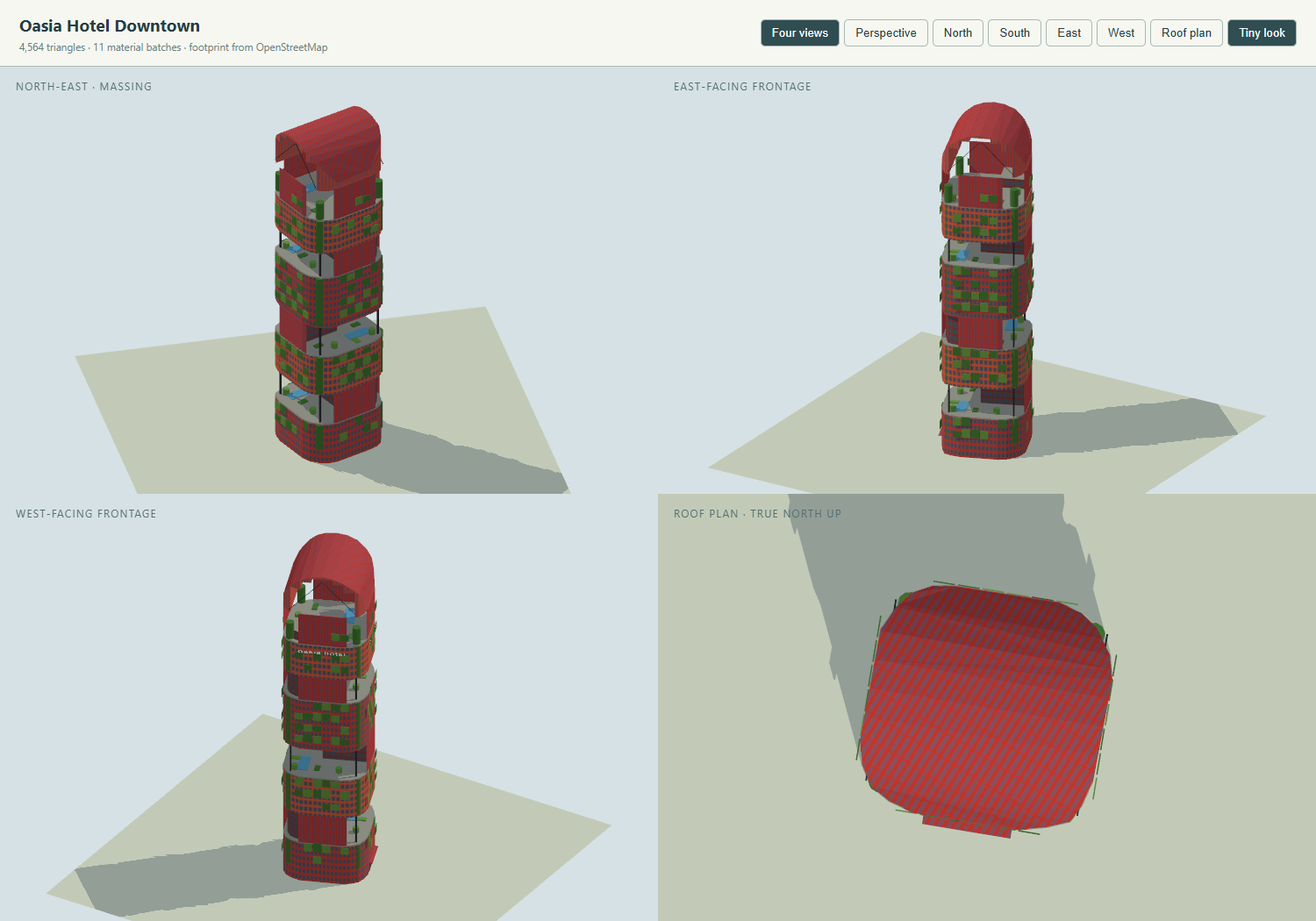
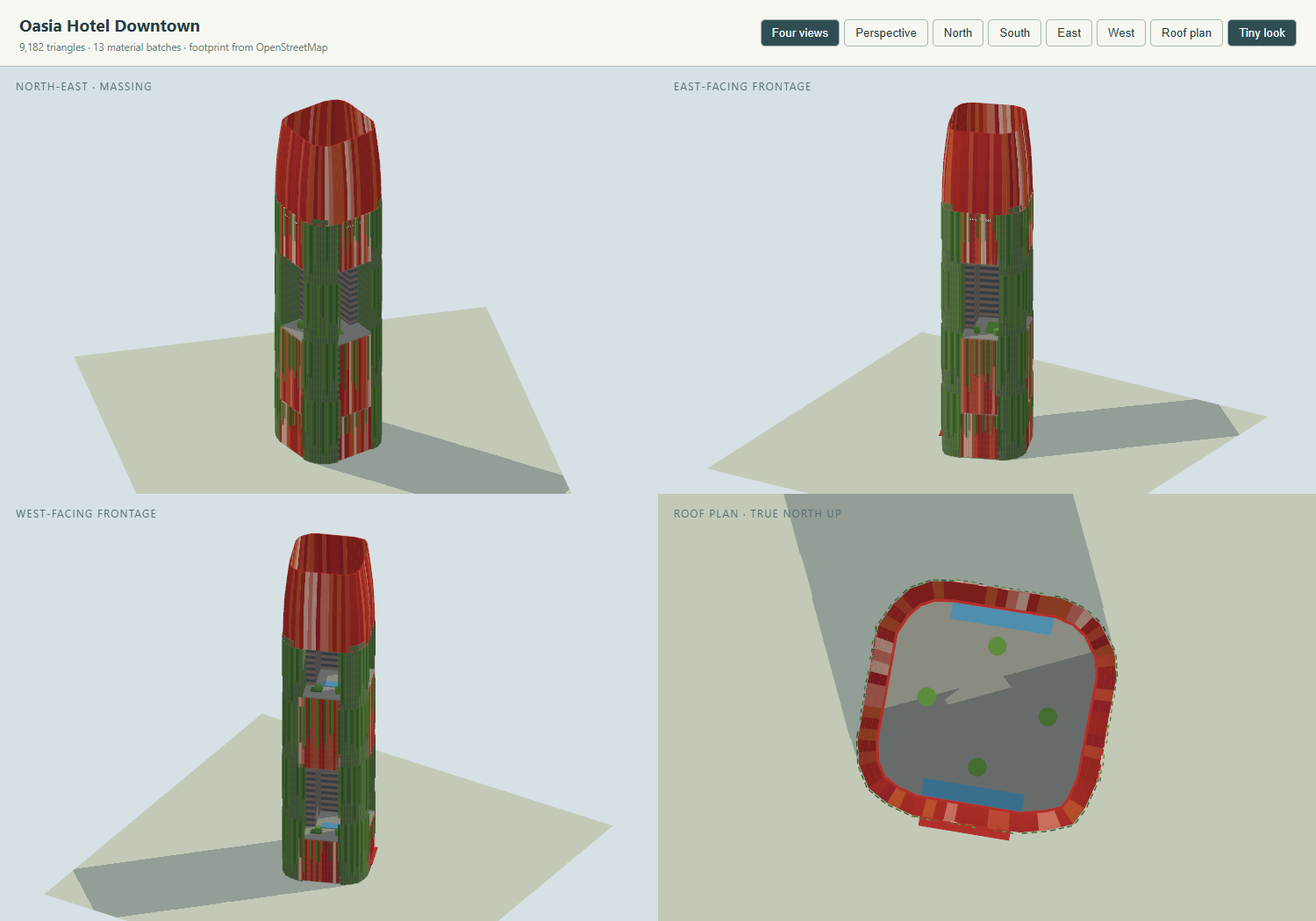
Rebuild Oasia crown, corner cores and strata from WOHA drawings

diff --git a/js/landmark-models/oasia-hotel-downtown.js b/js/landmark-models/oasia-hotel-downtown.js
@@ -1,19 +1,28 @@
 // js/landmark-models/oasia-hotel-downtown.js
-// Oasia Hotel Downtown, 100 Peck Seah Street (WOHA, 2016): a 27-storey tower wrapped in a red aluminium
-// mesh with creepers growing over it, its floors stacked as strata each served by an open sky terrace
-// (levels 6, 12, 21 and the level-27 roof terrace), the terraces flipping from face to face as the
-// enclosed core jumps corner, and the mesh continuing above the roof as a hollow arched crown screen
-// (documented 42.9 m of crown over a 190.15 m building; the mapped outline, OSM way 393100847, says
-// 193 m and 27 levels). Strata heights below are estimates from the documented total, the crown height
-// and photographs, not surveyed elevations: enclosed blocks 0-23, 41-64, 82-112 and 127-147 m, open
-// terraces between them, the roof deck at 147 m and the vault top at 190 m. See docs/oasia-hotel-downtown.md.
+// Oasia Hotel Downtown (SG-115), 100 Peck Seah Street (WOHA, 2016): a 27-storey tower wrapped in a red
+// aluminium mesh with creepers, built as full-height service cores in its four rounded corners (each a green
+// facade in WOHA's plans) with L-shaped floors stacked between sky terraces. Each stratum is one tall
+// framed opening: the enclosed L fills two faces from terrace deck to terrace deck while the opposite corner
+// stays open as a sky garden, and the L flips corner at every terrace (offices east+north, guestrooms
+// south+west, club rooms east+north again, as WOHA's 7th-11th, 13th-20th and 22nd-25th plans show). The
+// mesh continues over the 27th-storey roof terrace as an open-topped crown ring curving inward, so the
+// rooftop pools stay visible from above. Terrace decks at about 26, 70, 114 and 144 m and the 190 m top
+// are scaled from WOHA's published section (1:900, whose width matches the mapped footprint); the total
+// is the documented 190.15 m. The mapped outline is OSM way 393100847 (27 levels, mapped 193 m).
+// See docs/oasia-hotel-downtown.md.
 export const info = { name: 'Oasia Hotel Downtown', height: 190 };
 
 const OUTLINE = 393100847;
-const BLOCKS = [[0, 23], [41, 64], [82, 112], [127, 147]];
-// label, deck, soffit, core corner: NW cores leave the south/east faces open, SE cores the north/west
-const TERRACES = [['terrace6', 23, 41, 'NW'], ['terrace12', 64, 82, 'SE'], ['terrace21', 112, 127, 'NW']];
-const ROOF = 147, CROWN_WALL_TOP = 166, TOP = 190;
+const DECKS = [26, 70, 114, 144]; // 6th, 12th, 21st and 27th storey sky terraces, scaled from the section
+const TOP = 190;
+const DEPTH = 18; // an L leg's depth from its face, from the typical-floor plans
+const CORNER = 13; // a corner core's reach along each face from its corner
+// label, deck, next deck, the corner the L wraps [east/west sign on u, south/north sign on v]
+const STRATA = [
+  ['offices', DECKS[0], DECKS[1], [1, -1]],
+  ['guestrooms', DECKS[1], DECKS[2], [-1, 1]],
+  ['club', DECKS[2], DECKS[3], [1, -1]]
+];
 
 export function build(kit, site) {
   const mapped = site.parts.find((p) => p.id === OUTLINE);
@@ -46,6 +55,19 @@ export function build(kit, site) {
   const ringL = ring.map(toLocal);
   const insetL = (d) => kit.inset(ring, d).map(toLocal);
   const W = (poly) => poly.map(toWorld);
+  // How far each face stays flat: its longest mapped edge (the corners are rounded, radius ~12 m, so the
+  // flat stretch is only about 21.5 m and its ends are where panels, strands and signs must stop)
+  const flat = {};
+  for (let i = 0; i < ringL.length; i++) {
+    const a = ringL[i], b = ringL[(i + 1) % ringL.length];
+    const du = b[0] - a[0], dv = b[1] - a[1], len = Math.hypot(du, dv);
+    const mid = [(a[0] + b[0]) / 2, (a[1] + b[1]) / 2];
+    const offer = (face, at, lo, hi) => { if (!flat[face] || len > flat[face].len) flat[face] = { lo, hi, at, len }; };
+    if (Math.abs(dv) < 0.6 && mid[1] > hz - 1.2) offer('south', mid[1], Math.min(a[0], b[0]), Math.max(a[0], b[0]));
+    if (Math.abs(dv) < 0.6 && mid[1] < -hz + 1.2) offer('north', mid[1], Math.min(a[0], b[0]), Math.max(a[0], b[0]));
+    if (Math.abs(du) < 0.6 && mid[0] > hx - 1.2) offer('east', mid[0], Math.min(a[1], b[1]), Math.max(a[1], b[1]));
+    if (Math.abs(du) < 0.6 && mid[0] < -hx + 1.2) offer('west', mid[0], Math.min(a[1], b[1]), Math.max(a[1], b[1]));
+  }
 
   // Clip a convex local polygon by another convex local polygon (the footprint is a rounded square)
   const area2 = (p) => { let a = 0; for (let i = 0, j = p.length - 1; i < p.length; j = i++) a += p[j][0] * p[i][1] - p[i][0] * p[j][1]; return a; };
@@ -71,20 +93,14 @@ export function build(kit, site) {
     return out;
   }
   const rect = (u0, v0, u1, v1) => [[u0, v0], [u1, v0], [u1, v1], [u0, v1]];
-  // The mesh panel on one face: the part of the footprint within 0.65 m of that face's flat stretch
-  const facePanel = (face) => clip(ringL, {
-    south: rect(-hx - 2, hz - 0.65, hx + 2, hz + 2), north: rect(-hx - 2, -hz - 2, hx + 2, -hz + 0.65),
-    east: rect(hx - 0.65, -hz - 2, hx + 2, hz + 2), west: rect(-hx - 2, -hz - 2, -hx + 0.65, hz + 2)
-  }[face]);
+  const cornerCap = (su, sv, reach = CORNER, poly = ringL) => clip(poly,
+    rect(su > 0 ? hx - reach : -hx - 2, sv > 0 ? hz - reach : -hz - 2, su > 0 ? hx + 2 : -hx + reach, sv > 0 ? hz + 2 : -hz + reach));
 
   const M = {
-    // The mesh screen itself (terraces, crown, canopy): close red vertical strips over dark red
-    mesh: kit.facadeMaterial({ wall: 0xb8352c, window: 0x6e2430, floorHeight: 4.5, bayWidth: 1.6, windowWidth: 0.45, pattern: 'strips' }),
-    mesh2: kit.facadeMaterial({ wall: 0xc8503a, window: 0x77303a, floorHeight: 4.5, bayWidth: 1.9, windowWidth: 0.45, pattern: 'strips' }),
-    // The enclosed floors seen through the mesh: dark windows in a red-orange grid, alternating tones per block
-    block: kit.facadeMaterial({ wall: 0xc23b2e, window: 0x2a2f36, floorHeight: 3.9, bayWidth: 2.2, pattern: 'curtain' }),
-    block2: kit.facadeMaterial({ wall: 0xcf5a34, window: 0x2a2f36, floorHeight: 3.9, bayWidth: 2.5, pattern: 'curtain' }),
-    core: kit.facadeMaterial({ wall: 0x7a3a34, window: 0x222b33, floorHeight: 3.9, bayWidth: 2.8, pattern: 'curtain' }),
+    // the mesh's vertical panels, in the mixed reds, orange, pink and near-white of the photographs
+    meshTones: [0xb3312c, 0xc85a34, 0xa82a33, 0xb3312c, 0xd77a6a, 0xc8503a, 0xb3312c, 0xe3b7a4].map((c) => kit.material(c)),
+    rooms: kit.facadeMaterial({ wall: 0x8f7f74, window: 0x2c3438, floorHeight: 3.6, bayWidth: 2.4, pattern: 'ribbon' }),
+    core: kit.facadeMaterial({ wall: 0x668548, window: 0x354d26, floorHeight: 4.5, bayWidth: 1.5, windowWidth: 0.5, pattern: 'strips' }),
     dark: kit.material(0x2e3134), deck: kit.material(0x8b8d84),
     green: kit.material(0x3f7031), green2: kit.material(0x5d8f3e),
     pool: kit.glassMaterial(0x2f7f9f)
@@ -100,109 +116,152 @@ export function build(kit, site) {
     return kit.cylinder({ x, z, y0, y1, r, segments, material, top: material, name });
   };
   const rnd = (n) => { const x = Math.sin(n * 127.1 + 311.7) * 43758.5453; return x - Math.floor(x); };
+  const tone = (i) => M.meshTones[Math.abs(Math.floor(rnd(i * 3.7 + 11) * 17)) % M.meshTones.length];
 
-  // Creeper patches and green-wrapped corners over a height band of the four faces
-  function creepers(y0, y1, tag, density) {
-    for (const [fi, face] of ['south', 'north', 'east', 'west'].entries()) {
-      for (let col = 0; col < 6; col++) {
-        const a = -12.5 + col * 5, off = (col % 3) * 0.05;
-        for (let row = 0, y = y0 + 3.5; y < y1 - 2.5; y += 7, row++) {
-          const r = rnd(fi * 733 + col * 71 + row * 17 + Math.round(y0));
-          if (r > density) continue;
-          const h = 3.5 + r * 3, mat = (col + row) % 2 ? M.green : M.green2, name = `${tag}-creeper-${face}-${col}-${row}`;
-          if (face === 'south') B(a, hz - 0.02 + off, y, 4.4, h, 0.3, mat, name);
-          else if (face === 'north') B(a, -hz + 0.02 - off, y, 4.4, h, 0.3, mat, name);
-          else if (face === 'east') B(hx - 0.02 + off, a, y, 0.3, h, 4.4, mat, name);
-          else B(-hx + 0.02 - off, a, y, 0.3, h, 4.4, mat, name);
+  // The mesh on one enclosed face: vertical panels in mixed tones, only where the face is flat
+  function meshFace(face, y0, y1, seed) {
+    const { lo, hi, at } = flat[face];
+    for (let col = 0, a = lo + 0.7; a <= hi - 0.7; a += 1.55, col++) {
+      const mat = tone(seed + col * 7), name = `mesh-${face}-${Math.round(y0)}-${col}`;
+      if (face === 'south') B(a, at - 0.05, y0, 1.35, y1 - y0, 0.35, mat, name);
+      else if (face === 'north') B(a, at + 0.05, y0, 1.35, y1 - y0, 0.35, mat, name);
+      else if (face === 'east') B(at - 0.05, a, y0, 0.35, y1 - y0, 1.35, mat, name);
+      else B(at + 0.05, a, y0, 0.35, y1 - y0, 1.35, mat, name);
+    }
+  }
+  // Creepers as vertical strands hanging on the mesh, kept on the flat stretch of each face
+  function strandsFace(face, y0, y1, seed, density = 0.55) {
+    const { lo, hi, at } = flat[face];
+    for (let col = 0, a = lo + 0.5; a <= hi - 0.5; a += 1.5, col++) {
+      const r = rnd(seed + col * 13.7);
+      if (r > density) continue;
+      const len = (0.35 + r * 0.75) * (y1 - y0), y = y1 - len, out = 0.3 + (col % 3) * 0.06;
+      const mat = col % 2 ? M.green : M.green2, name = `creeper-${face}-${Math.round(y0)}-${col}`;
+      if (face === 'south') B(a, at + out, y, 0.8, len, 0.25, mat, name);
+      else if (face === 'north') B(a, at - out, y, 0.8, len, 0.25, mat, name);
+      else if (face === 'east') B(at + out, a, y, 0.25, len, 0.8, mat, name);
+      else B(at - out, a, y, 0.25, len, 0.8, mat, name);
+    }
+  }
+  // Creepers following the rounded corners themselves, sampled along the mapped perimeter
+  function cornerStrands(y0, y1, seed) {
+    let idx = 0;
+    for (let i = 0; i < ringL.length; i++) {
+      const a = ringL[i], b = ringL[(i + 1) % ringL.length];
+      const len = Math.hypot(b[0] - a[0], b[1] - a[1]), n = Math.max(1, Math.round(len / 1.8));
+      const du = (b[0] - a[0]) / len, dv = (b[1] - a[1]) / len;
+      for (let k = 0; k < n; k++, idx++) {
+        const t = (k + 0.5) / n, u = a[0] + (b[0] - a[0]) * t, v = a[1] + (b[1] - a[1]) * t;
+        if (!(Math.abs(u) > hx - 14.5 && Math.abs(v) > hz - 14.5)) continue;
+        let nx = dv, nz = -du;
+        if (nx * u + nz * v < 0) { nx = -nx; nz = -nz; }
+        const [x, z] = toWorld([u + nx * 0.2, v + nz * 0.2]);
+        const dir = [E[0] * du + S[0] * dv, E[1] * du + S[1] * dv];
+        for (let c = 0; c < 4; c++) {
+          const r = rnd(seed + idx * 7.3 + c * 31.7);
+          if (r > 0.78) continue;
+          const chunk = (y1 - y0) / 4, h = chunk * (0.55 + r * 0.5);
+          kit.box({ x, z, y: y0 + chunk * (c + 1) - h - 0.15, w: 1.1, h, d: 0.28, yaw: Math.atan2(dir[1], dir[0]), material: (idx + c) % 2 ? M.green : M.green2, top: M.green, name: `corner-creeper-${idx}-${c}` });
         }
       }
     }
-    for (const su of [-1, 1]) for (const sv of [-1, 1])
-      C(su * (hx - 5.2), sv * (hz - 5.2), y0 + 0.12, y1 - 0.12, 2.3, M.green, `${tag}-corner-green-${su}-${sv}`);
   }
 
-  // Enclosed strata: the full mapped footprint behind the red mesh
-  BLOCKS.forEach(([y0, y1], i) => {
-    kit.prism({ ring, y0: i === 0 ? -0.3 : y0, y1, material: i % 2 ? M.block2 : M.block, top: M.deck, name: `block-${i + 1}` });
-    kit.collisionPrism({ ring: kit.inset(ring, 0.4), y0: Math.max(0, y0), y1 });
-    creepers(i === 0 ? 8 : y0 + 1, y1, `block-${i + 1}`, 0.62);
-  });
+  // Four full-height corner cores, their outer faces the green facade of the plans
+  for (const su of [-1, 1]) for (const sv of [-1, 1]) {
+    const cap = cornerCap(su, sv);
+    prismL(cap, -0.3, DECKS[3], M.core, `corner-core-${su}-${sv}`, M.deck);
+    kit.collisionPrism({ ring: W(cap), y0: 0, y1: DECKS[3] });
+  }
+  cornerStrands(2, DECKS[3], 501);
 
-  // Street front: a dark lobby band under a thin canopy on the Peck Seah (south) face
-  B(0, hz - 0.4, 0, 16, 5, 1.2, M.core, 'lobby');
-  const canopy = B(0, hz + 0.6, 5.2, 18, 0.4, 2.6, M.mesh, 'entrance-canopy');
+  // Base (ground to the 6th-storey terrace): full footprint behind mesh on all four faces
+  kit.prism({ ring: kit.inset(ring, 1.0), y0: -0.3, y1: DECKS[0], material: M.rooms, top: M.deck, name: 'base' });
+  kit.collisionPrism({ ring: kit.inset(ring, 0.4), y0: 0, y1: DECKS[0] });
+  for (const [i, face] of ['south', 'north', 'east', 'west'].entries()) {
+    meshFace(face, 0.5, DECKS[0], 100 + i * 37);
+    strandsFace(face, 8, DECKS[0], 200 + i * 41);
+  }
+  const southCentre = (flat.south.lo + flat.south.hi) / 2;
+  B(southCentre, hz - 0.4, 0, 16, 5, 1.2, M.core, 'lobby');
+  const canopy = B(southCentre, hz + 0.6, 5.2, 18, 0.4, 2.6, M.meshTones[0], 'entrance-canopy');
   kit.collisionPrism({ ring: canopy.ring, y0: 5.2, y1: 5.6 });
 
-  // Sky terraces: a deck across the footprint, the enclosed core at the back corner, mesh panels only
-  // on the core's two faces, the other two faces open under the next block's soffit
-  for (const [label, deck, top, corner] of TERRACES) {
-    kit.prism({ ring: kit.inset(ring, 0.18), y0: deck - 0.15, y1: deck + 0.55, material: M.deck, top: M.deck, name: `${label}-deck` });
+  // Terrace decks across the footprint at every sky-terrace level
+  for (const deck of DECKS) {
+    kit.prism({ ring: kit.inset(ring, 0.18), y0: deck - 0.15, y1: deck + 0.55, material: M.deck, top: M.deck, name: `deck-${deck}` });
     kit.collisionPrism({ ring: kit.inset(ring, 0.4), y0: deck - 0.1, y1: deck + 0.8 });
-    const coreRect = corner === 'NW' ? rect(-hx - 2, -hz - 2, 3, 3) : rect(-3, -3, hx + 2, hz + 2);
-    const core = clip(insetL(2.3), coreRect);
-    prismL(core, deck - 0.1, top, M.core, `${label}-core`, M.deck);
-    kit.collisionPrism({ ring: W(core), y0: deck, y1: top });
-    for (const face of corner === 'NW' ? ['north', 'west'] : ['south', 'east']) {
-      const panel = facePanel(face);
-      prismL(panel, deck + 0.55, top, M.mesh, `${label}-skin-${face}`);
-      kit.collisionPrism({ ring: W(panel), y0: deck + 0.55, y1: top });
+  }
+
+  // Each stratum: an L of enclosed floors from deck to deck, the opposite corner open as its sky garden
+  const roomsRing = insetL(1.0);
+  for (const [label, y0, y1, [su, sv]] of STRATA) {
+    const vLeg = clip(roomsRing, rect(-hx + CORNER, sv > 0 ? hz - DEPTH : -hz - 2, hx - CORNER, sv > 0 ? hz + 2 : -hz + DEPTH));
+    const uLeg = clip(roomsRing, rect(su > 0 ? hx - DEPTH : -hx - 2, sv > 0 ? -hz + CORNER : -hz + DEPTH, su > 0 ? hx + 2 : -hx + DEPTH, sv > 0 ? hz - DEPTH : hz - CORNER));
+    for (const [leg, legName] of [[vLeg, 'v'], [uLeg, 'u']]) {
+      prismL(leg, y0 + 0.55, y1, M.rooms, `${label}-leg-${legName}`, M.deck);
+      kit.collisionPrism({ ring: W(leg), y0, y1 });
     }
-    const cs = corner === 'NW' ? 1 : -1; // the open corner is opposite the core
-    for (const [su, sv] of [[cs, cs], [cs, -cs], [-cs, cs]])
-      B(su * (hx - 5.5), sv * (hz - 5.5), deck + 0.55, 0.9, top - deck - 0.55, 0.9, M.dark, `${label}-post-${su}-${sv}`);
-    B(cs * 10, cs * 12, deck + 0.55, 14, 0.5, 6, M.pool, `${label}-pool-water`);
-    [[14, 4, 5, 3], [5, 17, 3, 5], [-14, 10, 5, 3]].forEach(([u, v, w, d], i) =>
-      B(cs * u, cs * v, deck + 0.55, w, 0.7, d, i % 2 ? M.green2 : M.green, `${label}-planting-${i}`));
-    [[16, 16], [16, -8], [-8, 16]].forEach(([u, v], i) =>
-      C(cs * u, cs * v, deck + 0.5, deck + 3.6, 1.8, M.green2, `${label}-tree-${i}`));
-  }
-
-  // The level-27 roof terrace inside the crown: deck, small plant core, pool and trees
-  kit.prism({ ring: kit.inset(ring, 0.18), y0: ROOF - 0.15, y1: ROOF + 0.55, material: M.deck, top: M.deck, name: 'roof-deck' });
-  kit.collisionPrism({ ring: kit.inset(ring, 0.4), y0: ROOF - 0.1, y1: ROOF + 0.8 });
-  const roofCore = clip(insetL(2.3), rect(-hx - 2, -hz - 2, -6, -6));
-  prismL(roofCore, ROOF + 0.4, ROOF + 6, M.core, 'roof-core', M.deck);
-  kit.collisionPrism({ ring: W(roofCore), y0: ROOF + 0.4, y1: ROOF + 6 });
-  B(9, 10, ROOF + 0.55, 15, 0.5, 6.5, M.pool, 'roof-pool-water');
-  [[15, -10, 6, 3], [-12, 14, 5, 3]].forEach(([u, v, w, d], i) =>
-    B(u, v, ROOF + 0.55, w, 0.7, d, i % 2 ? M.green2 : M.green, `roof-planting-${i}`));
-  [[16, 16], [-15, -14], [2, -17]].forEach(([u, v], i) =>
-    C(u, v, ROOF + 0.5, ROOF + 4, 1.9, M.green2, `roof-tree-${i}`));
-
-  // The crown: straight mesh screen walls, then the barrel-vault shell (ridge east-west, ends open)
-  for (const face of ['south', 'north', 'east', 'west']) {
-    const panel = facePanel(face);
-    prismL(panel, ROOF + 0.5, CROWN_WALL_TOP, M.mesh, `crown-screen-${face}`);
-    kit.collisionPrism({ ring: W(panel), y0: ROOF + 0.5, y1: CROWN_WALL_TOP });
-  }
-  creepers(ROOF + 1, ROOF + 11, 'crown', 0.35);
-  const archY = (v) => CROWN_WALL_TOP + Math.sqrt(Math.max(0, hz * hz - v * v)) * ((TOP - CROWN_WALL_TOP) / hz);
-  const vaultClip = insetL(0.18), strips = 8;
-  for (let k = 0; k < strips; k++) {
-    const v0 = -hz + (2 * hz * k) / strips, v1 = -hz + (2 * hz * (k + 1)) / strips;
-    const poly = clip(rect(-hx - 2, v0, hx + 2, v1), vaultClip);
-    if (poly.length < 3) continue;
-    kit.prism({
-      ring: W(poly), y0: Math.min(archY(v0), archY(v1)) - 0.85,
-      y1: (x, z) => archY(toLocal([x, z])[1]), material: M.mesh2, top: M.mesh, name: `crown-vault-${k}`
+    const faces = [sv > 0 ? 'south' : 'north', su > 0 ? 'east' : 'west'];
+    faces.forEach((face, i) => {
+      meshFace(face, y0 + 0.5, y1, y0 * 3 + i * 53);
+      strandsFace(face, y0 + 4, y1, y0 * 5 + i * 61, 0.6);
     });
-  }
-  // Conservative collision for the vault top only, kept inside its footprint; the curved flanks are
-  // left to the screen-wall colliders below them (documented simplification)
-  kit.collisionPrism({ ring: W(rect(-hx + 4, -6, hx - 4, 6)), y0: 185, y1: TOP });
-  const rod = (u, v, y, tv, ty, name) => kit.loft({
-    ring: W(rect(u - 0.18, v - 0.18, u + 0.18, v + 0.18)), topRing: W(rect(u - 0.18, tv - 0.18, u + 0.18, tv + 0.18)),
-    y0: y, y1: ty, material: M.dark, top: M.dark, name
-  });
-  for (const su of [-1, 1]) {
-    rod(su * (hx - 2.5), -hz + 5, CROWN_WALL_TOP + 1, -0.4, TOP - 4.5, `crown-truss-${su}-n`);
-    rod(su * (hx - 2.5), hz - 5, CROWN_WALL_TOP + 1, 0.4, TOP - 4.9, `crown-truss-${su}-s`);
+    const ou = -su, ov = -sv; // the open corner
+    if (label === 'guestrooms') {
+      B(ou * 8, ov * 8, y0 + 0.55, 14, 0.5, 14, M.green2, `${label}-lawn`);
+    } else {
+      B(ou * 9, ov * 7, y0 + 0.55, 5, 0.5, 18, M.pool, `${label}-pool-water`);
+      B(ou * 16, ov * -4, y0 + 0.55, 4, 0.7, 6, M.green, `${label}-planting-0`);
+      B(ou * -3, ov * 16, y0 + 0.55, 7, 0.7, 3, M.green2, `${label}-planting-1`);
+    }
+    [[17, 8], [8, 17], [16, -3]].forEach(([tu, tv], i) =>
+      C(ou * tu, ov * tv, y0 + 0.5, y0 + 3.8, 1.8, M.green2, `${label}-tree-${i}`));
   }
 
-  // The hotel's name, as photographed on the south and west faces under the crown: placed on the flat
-  // face centres at its photographed size (kit.hang would clamp it to one short segment of the ring)
-  for (const [face, [u, v], n] of [['south', [0, hz + 0.55], S], ['west', [-hx - 0.55, 0], [-E[0], -E[1]]]]) {
-    const [x, z] = toWorld([u, v]);
-    kit.sign({ text: 'oasia hotel', x, z, yTop: ROOF - 1.5, yaw: Math.atan2(n[0], n[1]), width: 28, height: 4.5, color: 0xffffff, name: `sign:oasia-${face}` });
+  // The 27th-storey roof terrace inside the crown: restaurant pavilion, pools along the north and south
+  // faces and the corner lifts, as the 27th-storey plan lays them out
+  const ROOF = DECKS[3];
+  prismL([[0, -8.5], [8.5, 0], [0, 8.5], [-8.5, 0]], ROOF + 0.55, ROOF + 3.4, M.rooms, 'roof-restaurant', M.deck);
+  kit.collisionPrism({ ring: W([[0, -8.5], [8.5, 0], [0, 8.5], [-8.5, 0]]), y0: ROOF + 0.55, y1: ROOF + 3.4 });
+  B(0, -(hz - 5), ROOF + 0.55, 20, 0.5, 5, M.pool, 'roof-pool-north-water');
+  B(0, hz - 5, ROOF + 0.55, 20, 0.5, 5, M.pool, 'roof-pool-water');
+  for (const su of [-1, 1]) for (const sv of [-1, 1])
+    prismL(cornerCap(su, sv, 8), ROOF + 0.4, ROOF + 3.6, M.core, `roof-lift-${su}-${sv}`, M.deck);
+  [[12, 0], [-12, 0], [0, 12], [0, -12]].forEach(([u, v], i) =>
+    C(u, v, ROOF + 0.5, ROOF + 4.2, 1.9, M.green2, `roof-tree-${i}`));
+
+  // The crown: an open-topped mesh ring following the whole rounded footprint, curving inward toward
+  // the top (insets growing with height, as the section's profile does), in vertical mixed-tone panels
+  const crownLevels = [[ROOF, 0], [156, 0.25], [168, 0.9], [180, 2.2], [TOP, 3.5]];
+  const outerAt = crownLevels.map(([, d]) => insetL(d));
+  const innerAt = crownLevels.map(([, d]) => insetL(d + 0.55));
+  const lerpPt = (a, b, t) => [a[0] + (b[0] - a[0]) * t, a[1] + (b[1] - a[1]) * t];
+  let segId = 0;
+  for (let band = 0; band + 1 < crownLevels.length; band++) {
+    let perimSeg = 0; // a panel keeps its tone up the whole crown, as the real vertical panels do
+    for (let i = 0; i < ringL.length; i++) {
+      const j = (i + 1) % ringL.length;
+      const edgeLen = Math.hypot(outerAt[0][j][0] - outerAt[0][i][0], outerAt[0][j][1] - outerAt[0][i][1]);
+      const n = Math.max(1, Math.round(edgeLen / 2.2));
+      for (let k = 0; k < n; k++, segId++, perimSeg++) {
+        const t0 = k / n, t1 = (k + 1) / n;
+        const quad = (L) => [lerpPt(outerAt[L][i], outerAt[L][j], t0), lerpPt(outerAt[L][i], outerAt[L][j], t1),
+          lerpPt(innerAt[L][i], innerAt[L][j], t1), lerpPt(innerAt[L][i], innerAt[L][j], t0)];
+        kit.loft({ ring: W(quad(band)), topRing: W(quad(band + 1)), y0: crownLevels[band][0], y1: crownLevels[band + 1][0], material: tone(perimSeg), top: M.meshTones[0], name: `crown-${band}-${segId}` });
+      }
+    }
   }
+  // Crown collision follows the ring in three height bands at the taper's own insets; the middle stays open
+  for (const [level, y0, y1] of [[0, ROOF, 168], [2, 168, 180], [3, 180, TOP]]) {
+    for (let i = 0; i < ringL.length; i++) {
+      const j = (i + 1) % ringL.length;
+      kit.collisionPrism({ ring: W([outerAt[level][i], outerAt[level][j], innerAt[level][j], innerAt[level][i]]), y0, y1 });
+    }
+  }
+
+  // The hotel's name hung on the club floors' enclosed faces, sized to the wall it sits on
+  kit.hang({ ring, top: ROOF, toward: 90, text: 'oasia hotel', height: 5, color: 0xffffff, name: 'sign:oasia-east' });
+  kit.hang({ ring, top: ROOF, toward: 0, text: 'oasia hotel', height: 5, color: 0xffffff, name: 'sign:oasia-north' });
 }
+

diff --git a/docs/oasia-hotel-downtown.md b/docs/oasia-hotel-downtown.md
@@ -2,30 +2,30 @@
 
 ## Design and references
 
-Replace the generic OpenStreetMap extrusion of WOHA's Oasia Hotel Downtown (100 Peck Seah Street, completed 2016; checklist task **SG-115**) with a procedural landmark model in the existing landmark kit: the red aluminium mesh and its creepers, the stacked strata with open sky terraces flipping from face to face, and the hollow arched crown screen over the rooftop terrace. Heights above the documented total are photo-estimated, not surveyed.
+Replace the generic OpenStreetMap extrusion of WOHA's Oasia Hotel Downtown (100 Peck Seah Street, completed 2016; checklist task **SG-115**) with a procedural landmark model in the existing landmark kit: four full-height green corner cores, L-shaped floors beside tall sky-garden voids under a red aluminium mesh with creepers in vertical strands, and an open-topped crown ring curving inward over the rooftop terrace.
 
 - [WOHA's project page (via world-architects)](https://www.world-architects.com/en/woha-singapore/project/oasia-hotel-downtown) is the architect's own record, quoted in search coverage: building height 190.15 m; four sky terraces at the 6th, 12th, 21st and 27th storeys; roof crown structure 42.9 m (about 13 hotel floors); 25,490 m² of expanded red aluminium mesh carrying 21 species of creepers. It describes the "club sandwich" of distinct strata — offices, hotel and club rooms — each with its own sky garden.
-- [ArchDaily's project page](https://www.archdaily.com/800878/oasia-hotel-downtown-woha) (photographs by K. Kopter and Patrick Bingham-Hall, 2016) supplied the aerial view into the open crown and the elevations showing the mesh continuing over the roof as an arched screen, the alternating open terraces and the dark enclosed core set back at the back corner of each terrace. Area 19,416 m², year 2016.
-- [Wikimedia Commons category: Oasia Hotel Downtown](https://commons.wikimedia.org/wiki/Category:Oasia_Hotel_Downtown) supplied freely licensed straight elevations — "Facade A" and "Facade B" (2019) and the scale model exhibited at Roppongi Hills Mori Tower (2019). The scale model is the clearest record of the massing: enclosed red-grid blocks alternating with open voids on each face, the voids switching faces between strata, and the barrel-vaulted mesh crown with open trussed ends over the roof terrace.
+- [ArchDaily's project page](https://www.archdaily.com/800878/oasia-hotel-downtown-woha) (photographs by K. Kopter and Patrick Bingham-Hall, 2016) carries WOHA's drawings, which are the model's primary evidence: the 1:900 section (with scale bar; its width matches the mapped footprint, so its heights scale directly: terrace decks at about 26, 70, 114 and 144 m, the crown curving inward above the roof deck with no vault over it), the 6th/12th/21st/27th sky-terrace plans (service cores in all four rounded corners, each labelled "green facade"; the 27th-storey pools along the north and south faces around a central restaurant), and the typical-floor plans (7th–11th offices and 22nd–25th club rooms as an L on the east+north faces, 13th–20th guestrooms flipped to south+west, legs about 18 m deep, the opposite corner open as that stratum's sky garden). Its aerial photograph looks straight down through the open crown onto the rooftop pools. Area 19,416 m², year 2016.
+- [Wikimedia Commons category: Oasia Hotel Downtown](https://commons.wikimedia.org/wiki/Category:Oasia_Hotel_Downtown) supplied freely licensed straight elevations — "Facade A" and "Facade B" (2019) and the scale model exhibited at Roppongi Hills Mori Tower (2019) — for colours (vertical mesh panels in mixed red, orange, pink and near-white; creepers in vertical strands; corners almost solid green) and the signs' size and faces.
 - [Wikipedia: Oasia Hotel Downtown](https://en.wikipedia.org/wiki/Oasia_Hotel_Downtown) gives 27 floors and the CTBUH Best Tall Building Worldwide 2018 award; its top-floor figure (193.3 m) conflicts with the architect's 190.15 m total, so the architect's figure is used and the mapped 193 m tag is treated as an approximation.
-- The EdgeProp and hotel coverage of the strata (office sky terrace with pool at level 6, hotel reception and pool at level 12, club facilities at level 21) guided the pool on each terrace deck.
 
 ## Mapped footprint and dimensions
 
-- Replaced OSM object: way `393100847` only (`building=yes`, `building:levels=27`, `height=193`, `roof:shape=dome` — the last is the mapper's approximation of the arched crown, not used). No `building:part` ways and no enclosing relation exist for this tower in `tools/data/singapore/osm_buildings.json`.
-- The footprint is a convex rounded square of 20 mapped points after the city generator's simplification, about 50.6 m east–west by 49.2 m north–south (bounds centre 1.2758812, 103.8443413), area about 2,050 m² against a published site area of 2,311.4 m² — the footprint fills the site less its planting buffers, as WOHA describe.
+- Replaced OSM object: way `393100847` only (`building=yes`, `building:levels=27`, `height=193`, `roof:shape=dome` — the last is the mapper's approximation of the inward-curving crown, not used). No `building:part` ways and no enclosing relation exist for this tower in `tools/data/singapore/osm_buildings.json`.
+- The footprint is a convex rounded square of 20 mapped points after the city generator's simplification, about 50.6 m east–west by 49.2 m north–south (bounds centre 1.2758812, 103.8443413), area about 2,050 m² against a published site area of 2,311.4 m². Its corners are rounded with a radius of about 12 m, so each face is flat for only about 21.5 m (measured from the mapped ring's longest edges) — mesh panels, creeper strands and signs all stop at those flat stretches. In the model's local frame the footprint measures about 47.9 × 46.6 m between face planes.
 - Neighbours are preserved: Guoco Tower's podium and parts (ways 393100845, 393100848, 393100849, 393100850) and the surrounding Tanjong Pagar buildings are not hidden.
-- Model dimensions (metres, `y` up from the street): total 190 (documented 190.15). The roof-terrace deck is at 147, so the crown is 43 m, matching the documented 42.9 m. The strata beneath are estimates fitted to the terrace storeys (6, 12, 21) and the proportions of the elevations and scale model: enclosed blocks 0–23, 41–64, 82–112 and 127–147; open terraces 23–41, 64–82 and 112–127; straight crown screen to 166, then a semicircular-profile vault to the 190 m top. Individual floor-to-floor heights are not published in the sources above, so these boundaries should be read as ± several metres.
+- Model dimensions (metres, `y` up from the street): total 190 (documented 190.15). Terrace decks at 26, 70, 114 and 144, scaled from WOHA's section (the 144 m roof deck leaves a 46 m crown against the documented 42.9 m crown structure, a discrepancy inside the section-scaling tolerance of a few metres). Enclosed L legs are 18 m deep from their faces and run the full stratum between decks — offices 26–70, guestrooms 70–114, club rooms 114–144 — beside sky-garden voids of the same height (about 44, 44 and 30 m). Corner cores reach about 13 m along each face from their corners. The crown ring insets from the footprint by 0.25 m at 156 m, 0.9 m at 168 m, 2.2 m at 180 m and 3.5 m at the 190 m top, following the section's inward curve; its top stays open.
 
 ## Approach and scope
 
-Use the mapped ring itself for the enclosed blocks so the tower occupies exactly its surveyed footprint, and build everything else in a local east/south frame recovered from a mapped edge (independent of the vertex-average anchor and the city grid bearing):
+Build in a local east/south frame recovered from a mapped edge (independent of the vertex-average anchor and the city grid bearing), with the mapped ring itself clipping every footprint-following part:
 
-- Enclosed floors are prisms over the mapped ring in a red-orange curtain grid over dark windows, alternating tone per block, with seeded creeper patches on the flat face stretches and green-wrapped corner columns where the planting is heaviest in photographs.
-- Each sky terrace is modelled as what it is — open air: a deck slab across the footprint, the enclosed core clipped to the back corner (the footprint ring inset 2.3 m, clipped to a corner quadrant), red mesh panels only on the core's two faces, and posts, a pool, planting and trees on the deck. The core corner flips NW → SE → NW up the tower, so the open faces alternate as photographed. No slab fills a terrace, in geometry or in collision.
-- The crown is four straight mesh screen panels (the footprint clipped to within 0.65 m of each face) up to 166 m, then eight faceted shell strips on a circular arch profile to 190 m, ridge running east–west with the ends left open and two dark truss rods suggested at each end. Inside it sit the level-27 roof terrace, its pool, trees and a small plant core. Collision covers the screen walls, each terrace and roof deck, the enclosed blocks and, conservatively, the vault's top strip only — the curved flanks are a documented simplification (descending onto a flank meets the screen-wall colliders at its base).
-- Signs: white "oasia hotel" lettering at its photographed size on the south and west faces below the crown. Vault orientation (ridge east–west, open ends east and west) is estimated from the Commons elevations and the scale model; no source states it in compass terms, so a 90° error here is the model's main orientation uncertainty.
-- Interiors, the mesh's fine perforation, drapery of individual creepers and roof furniture are simplified to what reads at map camera distance. Reference photographs stay outside the repository.
+- Four corner cores run from the ground to the roof terrace, each the footprint ring clipped to its corner (13 m along both faces), in a green strip facade with creeper strands sampled along the mapped perimeter at the corners — the full-height green columns of every photograph.
+- Each stratum's enclosed floors are two legs of an L clipped from the footprint ring inset 1 m (the rooms behind the mesh), deck to deck, between the corner cores; offices and club rooms wrap the east+north corner, guestrooms the south+west, as the typical-floor plans show. The opposite corner stays open for the full stratum as its sky garden — a deck slab at its foot with pool or lawn, planting and trees clear of the water, and no filling slab in geometry or collision.
+- The mesh is built as individual vertical panels in mixed red, orange, pink and near-white tones, only over each enclosed face's flat stretch as measured from the ring's longest edges, with creepers as vertical strands hanging on it. The base, below the first terrace, is a full-footprint block behind mesh on all four faces, with the Peck Seah lobby and canopy kept inside the south face's flat stretch.
+- The crown is a ring of the same vertical panels following every mapped edge (rounded corners included, subdivided to about 2 m panels, each panel keeping its tone up the whole crown), lofted through insets that grow with height so the ring curves inward and stays open at the top; from above, the 27th-storey pools, restaurant pavilion, corner lifts and trees show inside it. Collision covers the corner cores, L legs, every terrace and roof deck, the restaurant pavilion and the crown ring in three bands at its own tapering insets, leaving the crown's middle and top genuinely open.
+- Signs: white "oasia hotel" lettering hung with `kit.hang` on the club floors' enclosed east and north faces, sized to those walls so they sit on the flat stretches instead of floating off the curve.
+- Interiors, the mesh's fine perforation, individual creeper species and terrace furniture are simplified to what reads at map camera distance. Reference photographs and drawings stay outside the repository; rendered comparisons are the model's own output.
 
 ## Inspect and rebuild
 
@@ -43,7 +43,7 @@ node --test tests/landmark-kit.test.cjs tests/landmark-models.test.cjs tests/sin
 
 ## Verification
 
-- New tests in `tests/landmark-models.test.cjs` probe the model from the mapped outline's centre in real east/north metres: exactly way 393100847 replaced (Guoco neighbours intact), 190 m top on the mapped footprint, no coplanar flicker, finite geometry; south face open at level 6 with the core north-west, north face open at level 12 with the core south-east, south open again at level 21; the crown hollow at its centre with no invisible slab, while its deck and vault top, the terrace decks and the enclosed blocks stop descent.
+- New tests in `tests/landmark-models.test.cjs` probe the model from the mapped outline's centre in real east/north metres: exactly way 393100847 replaced (Guoco neighbours intact), 190 m top on the mapped footprint, no coplanar flicker, finite geometry, signs fitting their flat face stretches; four corner cores running the full height and solid at every corner mid-stratum, including the detached core in an open quadrant; each sky garden open from just above its deck to just below the next (30 and 66 m, 76 and 108 m, 118 and 140 m probes) beside its solid L; the crown open at its centre and top with nothing over the roof pools, while its tapering walls, every terrace deck, the Ls and the corner cores stop descent.
 - Regenerated geodata on top of `main`, compared decoded against `main`'s geodata: `GEO.landmarks` gains exactly one entry (14 → 15 anchors, 241 → 242 mapped parts, the new part being way 393100847, anchor unchanged at the mapped site); decoded `GEO.buildings` go from 16,050 to 16,049 with exactly the generic Oasia extrusion removed (193 m, 27 levels, 20-point ring) and every other decoded building identical in absolute geometry (the only other packed difference is the next building's first-point delta, which is encoded relative to the previous ring). All other geodata keys — trees, lawns, blocks, roads — are identical, and `js/singapore-building-info.js` was regenerated in the same run.
-- Targeted checks on the merged branch: `node --test tests/landmark-kit.test.cjs tests/landmark-models.test.cjs tests/singapore-landmarks.test.mjs tests/city-geodata.test.mjs tests/building-info.test.mjs` passes 73/73.
-- Rendered checks (headless Chrome, preview tool): [four-view Tiny look](images/oasia-hotel-downtown-overview.png), south elevation in day look and the north-east view on the WebGPU backend all render without errors; 4,564 triangles in 11 material batches. The rendered tower was compared against the Commons elevations and the scale model; the strata were rebalanced once (taller terrace voids, denser creepers, gridded enclosed floors) after the first comparison.
+- Targeted checks on the final merged branch: `node --test tests/landmark-kit.test.cjs tests/landmark-models.test.cjs tests/singapore-landmarks.test.mjs tests/city-geodata.test.mjs tests/building-info.test.mjs` passes 79/79. (Two flicker *timing* assertions in unrelated models intermittently exceeded their 2 s budget while other sessions loaded the machine during development; each passes in isolation in about 0.5 s and in the final full targeted run.)
+- Rendered checks (headless Chrome, preview tool): [four-view Tiny look](images/oasia-hotel-downtown-overview.png), south elevation in day look and the north-east view on the WebGPU backend all render without errors; 9,182 triangles in 13 material batches. The rendered tower was compared against WOHA's section and plans, the ArchDaily aerial and the Commons elevations across two refinement rounds; the loaded-city headless capture hung in SwiftShader both times it was attempted and was stopped, so city context is verified by the decoded-geodata comparison and the preview renders rather than a committed city screenshot.
